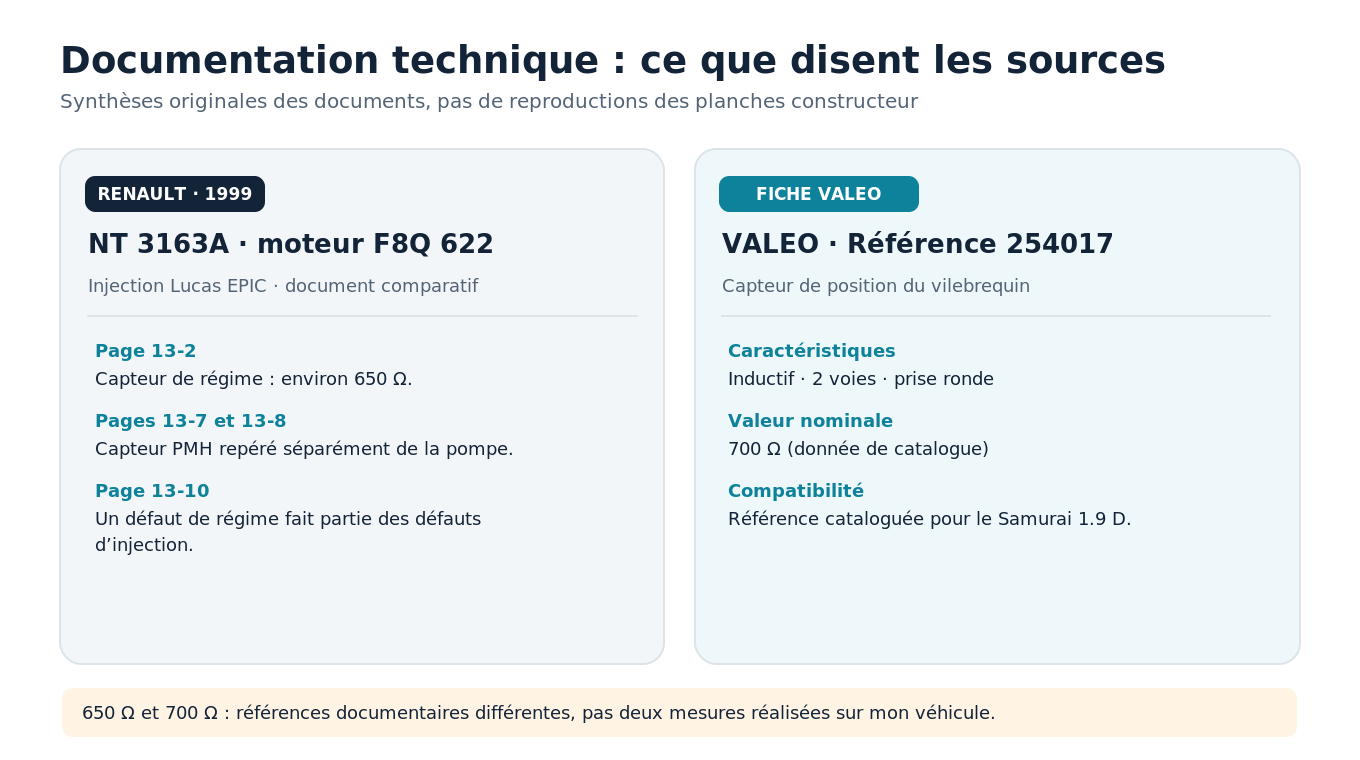
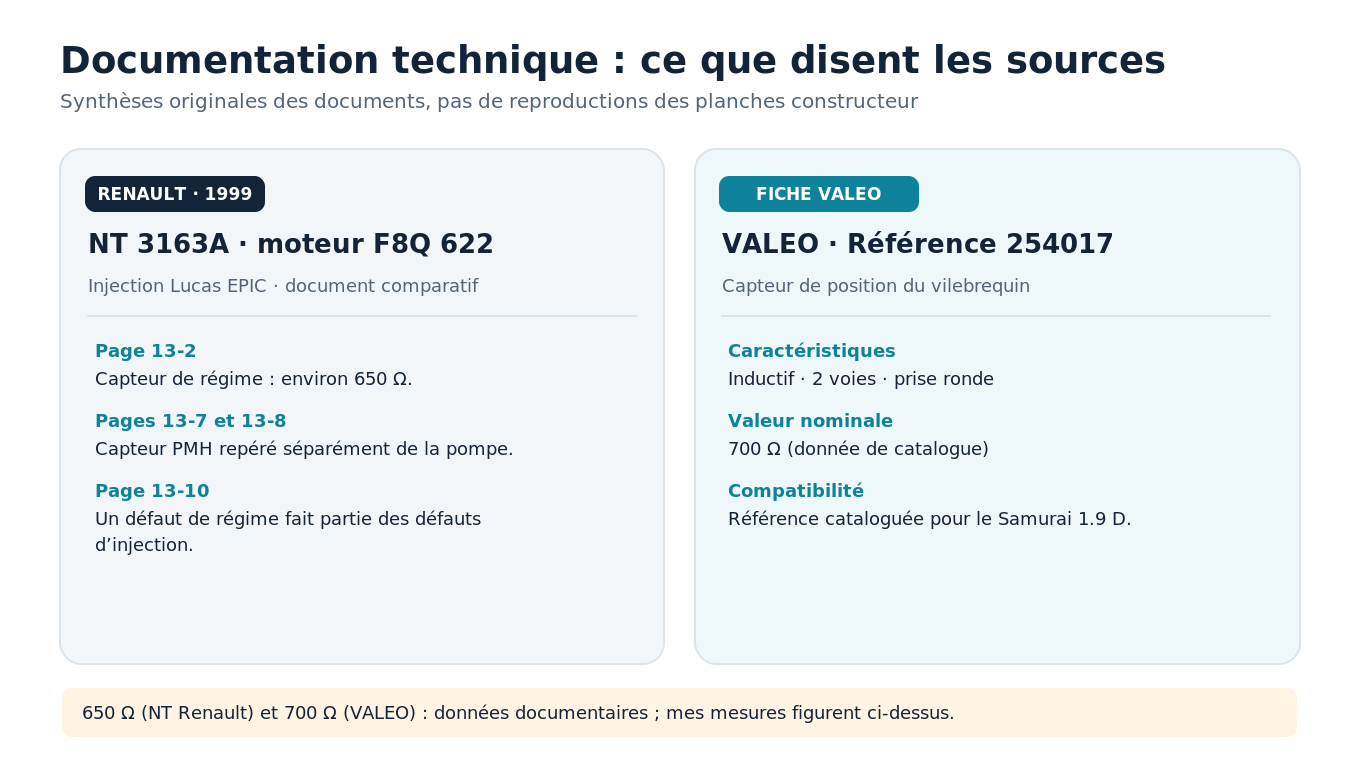
update avec photos

Changed region(s): [[0.0926, 0.9079, 0.7103, 0.9684]]

diff --git a/content/posts/Mecanique/suzuki-samurai-19d-panne-pmh/index.md b/content/posts/Mecanique/suzuki-samurai-19d-panne-pmh/index.md
@@ -1,126 +1,158 @@
 ---
-title: "Suzuki Samurai 1.9 D : une panne d'injection Lucas EPIC causée par le capteur PMH"
+title: "Suzuki Samurai 1.9 D : la pompe Lucas EPIC innocente, le capteur PMH coupé"
 date: 2026-10-27T21:30:00+01:00
+lastmod: 2026-10-27T22:30:00+01:00
 draft: false
 author: "F4EGM"
-description: "Retour d'expérience sur un Suzuki Samurai 1.9 D F8Q de 2001 : absence de démarrage, pompe Lucas EPIC suspectée, puis réparation avec un capteur PMH VALEO 254017 à 16 €."
-tags: ["Suzuki Samurai", "Renault F8Q", "Lucas EPIC", "capteur PMH", "injection diesel", "réparation"]
+description: "Suzuki Samurai 1.9 D F8Q de 2001 en panne : diagnostic de la pompe Lucas EPIC, capteur PMH ancien mesuré à plus de 2 MΩ, puis réparation avec un VALEO 254017 à 16 €. Photos et références réelles."
+tags: ["Suzuki Samurai", "Renault F8Q", "Lucas EPIC", "capteur PMH", "VALEO 254017", "injection diesel", "réparation"]
 ShowToc: true
 TocOpen: false
 cover:
   image: "couverture-samurai-pmh.png"
-  alt: "Schéma de principe : panne de démarrage du Suzuki Samurai 1.9 D et capteur PMH VALEO 254017"
+  alt: "Suzuki Samurai 1.9 D : diagnostic du capteur PMH et injection Lucas EPIC"
   relative: true
 ---
 
-Une panne de démarrage sur un **Suzuki Samurai 1.9 D de 2001**, équipé du moteur d'origine Renault **F8Q** et d'une pompe d'injection électronique **Lucas EPIC**, m'a d'abord orienté vers la pompe elle-même. Le gazole arrivait, mais je ne constatais pas de refoulement vers les injecteurs. Après plusieurs vérifications, le responsable s'est révélé être **le capteur de position du vilebrequin (PMH)**.
+Mon **Suzuki Samurai 1.9 D de 2001**, équipé du moteur diesel Renault **F8Q** et d'une pompe d'injection **Lucas EPIC**, refusait de redémarrer. Le gazole arrivait à la pompe, mais je ne constatais pas de débit vers les injecteurs. Tout orientait vers une panne de l'injection.
 
-**Résultat :** un **VALEO 254017**, acheté **16 € sur Amazon**, remplacé en quelques minutes. Depuis son remplacement, le moteur fonctionne de nouveau.
+Au final, il n'a fallu **ni remplacer ni faire réparer la pompe**. La panne venait du **capteur de position du vilebrequin (PMH)**. Un **VALEO 254017 acheté 16 € sur Amazon**, monté en quelques minutes, a permis au moteur de repartir.
 
-## Le véhicule et la panne
+La mesure électrique, effectuée sur l'ancien et le nouveau capteur, est particulièrement parlante : **plus de 2 MΩ pour le capteur hors service, contre environ 700 Ω pour le neuf**.
 
-| Élément | Identification |
+## Le véhicule et les symptômes
+
+| Élément | Référence / constat |
 |---|---|
-| Véhicule | Suzuki Samurai 1.9 D, première mise en circulation le 23 juillet 2001 |
+| Véhicule | Suzuki Samurai 1.9 D, mis en circulation le 23 juillet 2001 |
 | Type | SJS04 |
-| Moteur | Renault F8Q, référencé NF8Q dans certains catalogues de pièces Suzuki |
-| Injection | Pompe électronique Lucas EPIC, référence relevée R8640A111B |
-| Défaut | Arrêt / impossibilité de redémarrer, absence apparente de débit vers les injecteurs |
-| Cause confirmée par la réparation | Capteur PMH défectueux |
-| Réparation | Capteur VALEO 254017, 16 €, remplacement en quelques minutes |
+| Moteur | Renault F8Q diesel |
+| Pompe d'injection | Lucas EPIC, référence relevée **R8640A111B** |
+| Problème | Le moteur ne démarre plus ; gazole à l'arrivée de la pompe, aucun débit observé vers les injecteurs |
+| Pièce responsable | Capteur PMH / capteur de régime moteur |
+| Remplacement | **VALEO 254017**, 16 €, quelques minutes |
 
-![Suzuki Samurai de la même génération, photo illustrative d'un 1.9 TD de 2001](https://upload.wikimedia.org/wikipedia/commons/thumb/4/4b/Suzuki_Samurai_II_1.9_TD_2001_%2814574149333%29.jpg/960px-Suzuki_Samurai_II_1.9_TD_2001_%2814574149333%29.jpg)
+![Mon Suzuki Samurai 1.9 D et sa remorque sur un pont artisanal en bois](samurai-pont-artisanal-premiere-vue.jpg)
 
-*Photo d'illustration d'un autre Suzuki Samurai, version **1.9 TD** et non mon 1.9 D. Auteur : [order_242, Wikimedia Commons](https://commons.wikimedia.org/wiki/File:Suzuki_Samurai_II_1.9_TD_2001_(14574149333).jpg), licence [CC BY-SA 2.0](https://creativecommons.org/licenses/by-sa/2.0/). Image non retouchée.*
+*Mon Suzuki Samurai 1.9 D, photographié avec sa remorque sur un pont artisanal en rondins. Photo personnelle.*
 
-### Les symptômes observés
+![Vue générale de mon Suzuki Samurai et de sa remorque sur le pont](samurai-pont-artisanal-vue-generale.jpg)
 
-Le moteur ne redémarrait plus. Pourtant, l'alimentation en gazole et l'amorçage à la poire ne semblaient pas en cause. Les bougies de préchauffage avaient été contrôlées et l'antidémarrage paraissait fonctionner. En revanche, lors des essais, **le carburant ne semblait pas sortir de la pompe pour alimenter les injecteurs**.
+*Deuxième vue du même franchissement, montrant le 4×4, la remorque et l'ensemble du pont. Photo personnelle.*
 
-À la mise du contact, j'entendais un petit « tic ». Je pensais à l'électrovanne d'arrêt de la pompe, mais je n'avais pas identifié avec certitude l'organe à l'origine de ce bruit. Il aurait été abusif d'en conclure que l'électrovanne était bonne ou mauvaise.
+À la mise du contact, un petit *tic* était audible. J'avais pensé à l'électrovanne d'arrêt (*stop*) de la pompe, mais je n'avais pas déterminé avec certitude la provenance du bruit. Le simple fait d'entendre ce bruit ne permet pas de confirmer le fonctionnement de la commande d'injection.
 
-![Photographie d'un moteur Renault F8Q 1.9 diesel dans une Renault 19](https://upload.wikimedia.org/wikipedia/commons/thumb/2/20/Moteur_renault_19d.jpg/960px-Moteur_renault_19d.jpg)
+## La fausse piste de la pompe Lucas EPIC
 
-*Photo d'illustration d'un F8Q monté dans une Renault 19 en 1992 ; ce n'est ni mon moteur photographié ni le montage de pompe du Samurai. Auteur : [Manuel Lasnier, Wikimedia Commons](https://commons.wikimedia.org/wiki/File:Moteur_renault_19d.jpg), licence [CC BY-SA 2.5](https://creativecommons.org/licenses/by-sa/2.5/). Image non retouchée.*
+L'EPIC est une pompe rotative à gestion électronique. Contrairement à une ancienne pompe mécanique, elle dépend de capteurs et d'électrovannes pilotées par un calculateur. Une anomalie peut donc donner l'impression que la pompe est défectueuse alors que le problème se situe à l'extérieur.
 
-## Pourquoi j'ai d'abord suspecté la pompe Lucas EPIC
+### Identification de la pompe
 
-Cette pompe ne se comporte pas comme une ancienne pompe diesel entièrement mécanique. Sur une Lucas EPIC, le calculateur pilote notamment le débit et l'avance au moyen d'électrovannes, en fonction des informations reçues de plusieurs capteurs.
+![Plaque réelle de la pompe Lucas EPIC R8640A111B](pompe-lucas-epic-r8640a111b.jpg)
 
-J'avais donc exploré la piste d'un problème interne de pompe, notamment celle du **capteur de position du rotor / tiroir de débit**. J'avais déposé puis reposé mécaniquement le petit bloc maintenu par deux vis, sans toucher au noyau ni aux cales. Cette intervention n'a pas résolu la panne.
+*Photo personnelle : plaque de la pompe montée sur mon Samurai, portant la référence **Lucas R8640A111B**, EPIC H11.027. L'image a été remise à l'horizontale pour faciliter la lecture.*
 
-**À ne pas confondre :** le capteur de position interne de la Lucas EPIC et le **capteur PMH du moteur** sont deux organes différents. La documentation Renault indique que les capteurs internes de position des tiroirs nécessitent des opérations spécialisées de calibration. **Je déconseille donc d'ouvrir la pompe pour un non-démarrage avant d'avoir contrôlé le signal PMH.**
+### Le capteur de rotor que j'avais suspecté
 
-## Le rôle du capteur PMH dans l'injection
+Lors des recherches, j'ai démonté le bloc du capteur de position du rotor, fixé par deux vis. Il porte la référence **Lucas 9160-114A**. Ce capteur fait partie de la pompe EPIC : il ne faut pas le confondre avec le capteur PMH du moteur.
 
-Le PMH est un capteur de régime et de position du vilebrequin. Son signal permet au calculateur de connaître la rotation du moteur et son repère angulaire. Sur cette génération d'injection électronique, une information de régime absente ou inexploitable peut perturber la commande d'injection.
+![Référence 9160-114A relevée sur le capteur de rotor de la pompe](capteur-rotor-epic-9160-114a.jpg)
 
-![Schéma de principe du capteur PMH, du calculateur et de la pompe Lucas EPIC](chaine-pmh-injection.png)
+*Photo personnelle : étiquette **9160-114A** sur le capteur de position de rotor de la pompe Lucas EPIC. L'étiquette correspond à une référence proposée pour les pompes EPIC phase III, dont la R8640A111B : [fiche technique du fournisseur](https://www.liron.fr/capteur-rotor-lucas-epic-iii-9160-114a-rp-c2x40472778).*
 
-*Schéma fonctionnel original. Il explique la relation entre les organes, mais ne représente pas le câblage réel du Samurai. L'absence de commande d'injection est une interprétation compatible avec les symptômes, pas une mesure électrique que j'aurais faite sur ce véhicule.*
+**Un essai pouvait induire en erreur.** En ouvrant ce logement, puis en actionnant le démarreur, du gazole en sortait. J'ai pensé que cela pouvait signifier que la vanne de stop était ouverte. En réalité, **cet écoulement ne suffit pas à démontrer que l'électrovanne d'arrêt fonctionne correctement**, ni que la pompe refoule vers les injecteurs. Il indique seulement que du carburant était présent dans la partie ouverte de la pompe lors de l'essai.
 
-![Capteur de vilebrequin inductif générique ouvert et représenté en coupe](https://upload.wikimedia.org/wikipedia/commons/7/7c/Crankshaft_sensor.png)
+> **Attention :** je rapporte cet essai pour expliquer le diagnostic, **pas comme une méthode à reproduire**. Ouvrir la pompe expose à des fuites et à l'introduction d'impuretés. Le fournisseur précise que le capteur de rotor 9160-114A nécessite un paramétrage au banc après remplacement.
 
-*Illustration générique d'un capteur inductif : (1) bobine, (2) noyau en fer doux, (3) aimant, (4) connexion électrique. Ce n'est **pas** une coupe du VALEO 254017. Auteur : [Tamasflex, Wikimedia Commons](https://commons.wikimedia.org/wiki/File:Crankshaft_sensor.png), licence [CC BY-SA 3.0](https://creativecommons.org/licenses/by-sa/3.0/). Image non retouchée.*
+## Le capteur PMH était le véritable responsable
 
-## La pièce : VALEO 254017
+Le capteur PMH est fixé sur un support face au **volant moteur**, à proximité de la jonction moteur-boîte. Il renseigne le calculateur sur le régime et la position du vilebrequin. Sur l'injection Lucas EPIC, une absence de signal exploitable peut empêcher une commande d'injection normale.
 
-![Photographie de la pièce VALEO 254017, capteur PMH deux broches avec bride métallique](https://media.pkwteile.de/360_photos/9386186/h-preview.jpg)
+![Photo réelle du nouveau capteur PMH en place face au volant moteur](pmh-nouveau-detail.jpg)
 
-*Photographie commerciale du **VALEO 254017** diffusée sur [Piècesauto24](https://www.piecesauto24.com/valeo/9386186). Elle montre la référence de remplacement, pas le capteur que j'ai déposé. Image externe, propriété de son ayant droit ; autorisation de reproduction non vérifiée.*
+*Photo personnelle : **nouveau VALEO 254017 monté** sur mon Samurai, en regard du volant moteur. Le capteur est la pièce noire au centre de l'image, près de son faisceau et de sa fixation.*
 
-J'ai retenu le **VALEO 254017**, annoncé compatible avec le Samurai 1.9 D / NF8Q dans les catalogues de pièces. Il se présente comme un capteur **inductif à deux voies**, avec prise ronde, sans câble intégré. La fiche commerciale indique une résistance nominale de **700 Ω**.
+[Voir la photo originale en plan large de l'emplacement du capteur](pmh-nouveau-vue-ensemble.jpg).
 
-![Synthèse illustrée de la fiche technique du VALEO 254017](fiche-valeo-254017.png)
+![Schéma de principe : capteur PMH, calculateur et injection Lucas EPIC](chaine-pmh-injection.png)
 
-*Dessin original indicatif : pour voir la forme exacte de la pièce, consulter la [fiche produit VALEO 254017 chez Oscaro](https://www.oscaro.com/generateur-dimpulsions-vilebrequin-valeo-254017-9246948-833-p). La mention « 12 V » dans les catalogues correspond à l'application automobile ; **elle ne signifie pas qu'il faut alimenter directement les deux broches de ce capteur inductif en 12 V.***
+*Schéma fonctionnel original, non contractuel : il ne s'agit pas du câblage électrique spécifique au Suzuki SJS04.*
 
-Quelques références constructeur rapprochées du VALEO 254017 dans les catalogues : **Suzuki 33957-84A02-000**, **Renault 8201040861**. Ces équivalences servent à rechercher la pièce, mais ne remplacent pas la vérification du connecteur et du montage sur le véhicule concerné.
+### Les mesures qui ont tranché
 
-## Ce qu'apporte la documentation technique
+J'ai mesuré la résistance électrique des deux capteurs :
 
-J'ai retrouvé la **note technique Renault NT 3163A, janvier 1999**, relative au moteur **F8Q 622** équipé de la pompe **Lucas EPIC**. Ce document concerne une application Renault : il éclaire le fonctionnement de l'injection, **mais ne constitue pas le manuel d'atelier spécifique au Suzuki SJS04**.
+| Mesure aux deux bornes | Valeur relevée |
+|---|---:|
+| **Ancien PMH** | **Plus de 2 MΩ** |
+| **Nouveau PMH VALEO 254017** | **Environ 700 Ω** |
+| **Valeur donnée par la fiche VALEO** | **700 Ω** |
 
-Dans ce document :
+![Comparaison des mesures réelles sur le capteur défectueux et sur le nouveau](comparatif-mesures-pmh.png)
 
-- **Page 13-2 :** la résistance du capteur de régime est indiquée à **environ 650 Ω** pour cette application.
-- **Pages 13-7 et 13-8 :** le capteur de régime / PMH est identifié séparément de la pompe d'injection EPIC.
-- **Page 13-10 :** un défaut de capteur de régime figure parmi les anomalies susceptibles d'allumer le témoin d'injection.
-- **Page 13-3 :** les capteurs de position internes des tiroirs de la pompe EPIC sont décrits comme des organes dont la position est calibrée avec un équipement spécialisé.
+Le vieux capteur était **très sale**, mais ne présentait **aucune détérioration évidente à l'œil nu**. Son absence de continuité normale ne pouvait pas être déduite de son apparence. En comparaison, la valeur du capteur neuf correspond à la résistance indiquée dans le catalogue du fabricant.
 
-![Extraits documentaires sous forme de synthèse redessinée](synthese-documentation-f8q-valeo.png)
+Cette mesure sur l'ancien capteur est **compatible avec une coupure du bobinage ou un problème de continuité électrique**. Elle ne permet pas de localiser précisément la rupture à l'intérieur de la pièce. Dans mon cas, le redémarrage après remplacement confirme la piste du PMH.
 
-*Synthèse originale de deux sources : [NT Renault 3163A, moteur F8Q 622 / Lucas EPIC](https://pdfcoffee.com/3163a-particularites-moteur-f8q-622-pdf-free.html) et [fiche VALEO 254017](https://www.oscaro.com/generateur-dimpulsions-vilebrequin-valeo-254017-9246948-833-p). Les planches originales Renault ne sont pas reproduites.*
+Le contrôle à l'ohmmètre est utile pour déceler une coupure franche comme ici. **Une résistance proche de 700 Ω ne suffit toutefois pas à prouver qu'un capteur produit un signal correct pendant le lancement du moteur** : un contrôle dynamique peut rester nécessaire en cas de panne intermittente.
 
-Il faut éviter de transformer ces **650 Ω** et **700 Ω** en un seuil universel de diagnostic. Le premier chiffre vient d'un document d'atelier pour une application F8Q précise ; le second est une caractéristique catalogue de la référence VALEO. **Je n'ai pas effectué de relevé comparatif publié de résistance sur mon ancien capteur et sur le nouveau.**
+### La pièce choisie : VALEO 254017
 
-## Comment vérifier cette piste avant de démonter la pompe
+![Photographie commerciale du capteur de vilebrequin VALEO 254017](https://media.pkwteile.de/360_photos/9386186/h-preview.jpg)
 
-Pour un véhicule présentant les mêmes symptômes, l'ordre de vérification le plus logique est le suivant :
+*Photo catalogue du **VALEO 254017** : [Piècesauto24](https://www.piecesauto24.com/valeo/9386186). Image distante, droits de republication non vérifiés ; la photo n'est pas copiée dans les fichiers du site.*
 
-1. Vérifier que le démarreur entraîne correctement le moteur, puis contrôler l'alimentation électrique générale et l'arrivée de gazole, sans intervenir sur les conduites haute pression moteur tournant.
-2. Repérer le **capteur PMH près du volant moteur / de la jonction moteur-boîte**. Sa position exacte et l'accès peuvent varier selon le montage ; vérifier sur le véhicule avant toute dépose.
-3. Contact coupé et capteur débranché, mesurer la résistance entre ses **deux broches**. Une coupure franche ou un court-circuit constituent des indices ; une valeur voisine de la nominale **ne prouve pas à elle seule que le capteur fonctionne au démarrage**.
-4. Si le doute subsiste, contrôler le signal pendant l'entraînement au démarreur avec un oscilloscope adapté, ainsi que l'état du connecteur et du faisceau.
-5. Ne s'intéresser aux organes internes de la Lucas EPIC qu'après avoir éliminé ces causes externes simples.
+Le modèle commandé est un **capteur inductif deux broches**, sans câble intégré, avec une prise ronde. Sa **résistance nominale est de 700 Ω**, ce qui concorde avec ma mesure sur la pièce neuve. Le VALEO 254017 figure aussi dans les catalogues pour le Suzuki Samurai 1.9 D (NF8Q) de cette période.
 
-Je n'ai pas relevé ni conservé de valeur électrique de l'ancien capteur dans ce cas précis : **le diagnostic est confirmé ici par le retour au fonctionnement après remplacement**.
+![Fiche illustrée de la référence VALEO 254017](fiche-valeo-254017.png)
 
-## Remplacement et résultat
+*Illustration technique originale ; elle n'est pas un dessin constructeur. La mention catalogue « 12 V » désigne l'application véhicule, pas une tension à appliquer sur les deux bornes d'un capteur inductif passif.*
 
-J'ai commandé le **VALEO 254017 sur Amazon pour 16 €**. Le changement a pris **quelques minutes** et, une fois le capteur remplacé, **le moteur a de nouveau fonctionné**. Je n'ai eu à remplacer ni la pompe Lucas EPIC ni le calculateur d'injection.
+## Ce que dit la documentation Renault
 
-Ce retour d'expérience est intéressant pour une raison précise : l'absence apparente de refoulement de gazole peut orienter à tort vers la pompe elle-même, alors que **l'information de régime moteur** fait partie des conditions nécessaires au fonctionnement de l'injection électronique.
+La **note technique Renault NT 3163A**, publiée en janvier 1999, traite le **F8Q 622 avec pompe Lucas EPIC**. Elle n'est pas le manuel d'atelier du Samurai SJS04, mais apporte des repères utiles :
 
-**Conclusion :** sur un Samurai 1.9 D / F8Q avec Lucas EPIC qui refuse de démarrer, je commencerais par contrôler le capteur PMH et son faisceau **avant** d'envisager une réparation de pompe d'injection.
+- **Page 13-2** : résistance du capteur de régime de cette application Renault, **environ 650 Ω**.
+- **Pages 13-7 et 13-8** : distinction entre le **capteur PMH du moteur** et la **pompe Lucas EPIC**.
+- **Page 13-10** : mention des anomalies de régime moteur parmi les défauts d'injection.
+- **Page 13-3** : capteurs internes de position de la pompe, dont les interventions requièrent des précautions et des opérations spécialisées.
 
-## Sources et crédits
+![Synthèse des informations documentaires Renault et VALEO](synthese-documentation-f8q-valeo.png)
 
-- [Renault, NT 3163A (janvier 1999), F8Q 622 / Lucas EPIC](https://pdfcoffee.com/3163a-particularites-moteur-f8q-622-pdf-free.html), sections 13-2, 13-3, 13-7, 13-8 et 13-10. Document technique comparatif, reproduction des planches non autorisée sans accord.
-- [VALEO 254017 : fiche technique chez Oscaro](https://www.oscaro.com/generateur-dimpulsions-vilebrequin-valeo-254017-9246948-833-p), technologie, connectique et résistance catalogue.
-- [Catalogue Suzuki Samurai 1.9 D / NF8Q chez Piècesauto](https://www.piecesauto.fr/marque-automobile/pieces-detachees-suzuki/samurai-sj/25511/15032/capteur-pmh.html), plage d'application et référence de capteur.
-- [Équivalences constructeur VALEO 254017 chez Motointegrator](https://www.motointegrator.fr/produits/1400974-capteur-de-vilebrequin-valeo-254017).
-- Photos libres Wikimedia Commons : [Suzuki Samurai 1.9 TD 2001](https://commons.wikimedia.org/wiki/File:Suzuki_Samurai_II_1.9_TD_2001_(14574149333).jpg) (order_242, CC BY-SA 2.0), [moteur Renault F8Q](https://commons.wikimedia.org/wiki/File:Moteur_renault_19d.jpg) (Manuel Lasnier, CC BY-SA 2.5), et [coupe générique d'un capteur inductif](https://commons.wikimedia.org/wiki/File:Crankshaft_sensor.png) (Tamasflex, CC BY-SA 3.0).
-- [Piècesauto24 : photographie commerciale du VALEO 254017](https://www.piecesauto24.com/valeo/9386186). La photographie est appelée depuis le serveur tiers, sans copie locale ; son autorisation de republication n'est pas établie.
-- [Photographies de la pompe d'injection R8640A111B chez Eurofrance](https://eurofrance.cz/vstrikovaci-cerpadlo-delphi-r8640a111b-7700115073-epic-19d-f8q-renault.html) (illustration d'une pompe portant la même référence, sans copie des photos).
-- Schémas et synthèses graphiques : illustrations originales réalisées pour cet article, **non assimilables à des extraits graphiques constructeur**.
+*Synthèse graphique originale, non extraite du document constructeur. Source : [NT Renault 3163A, moteur F8Q 622](https://pdfcoffee.com/3163a-particularites-moteur-f8q-622-pdf-free.html), et fiche [VALEO 254017](https://www.piecesauto24.com/valeo/9386186).*
+
+Les **650 Ω** de la note Renault et les **700 Ω** de la fiche VALEO sont **deux données documentaires**, applicables à des références ou configurations différentes. Mes propres mesures sont bien celles présentées plus haut : **plus de 2 MΩ** sur l'ancien et **environ 700 Ω** sur le nouveau.
+
+![Vue de principe d'un capteur PMH inductif en coupe](https://upload.wikimedia.org/wikipedia/commons/7/7c/Crankshaft_sensor.png)
+
+*Coupe générique d'un capteur inductif, et non coupe du VALEO 254017 : bobine, noyau, aimant et raccordement. [Tamasflex, Wikimedia Commons](https://commons.wikimedia.org/wiki/File:Crankshaft_sensor.png), [CC BY-SA 3.0](https://creativecommons.org/licenses/by-sa/3.0/).*
+
+## Réparation et résultat
+
+J'ai acheté le **VALEO 254017 sur Amazon pour 16 €**. La dépose de l'ancien capteur et la pose du nouveau n'ont pris que **quelques minutes**. Une fois le capteur remonté et connecté, **le moteur a redémarré et fonctionne de nouveau**.
+
+La pompe Lucas EPIC **R8640A111B** est restée en place. Il n'a pas été nécessaire de la remplacer.
+
+### Comment j'aborderais aujourd'hui la même panne
+
+Sur un Samurai F8Q avec injection EPIC et moteur qui ne démarre plus, je vérifierais désormais le **PMH et sa connectique avant de déposer le moindre composant interne de la pompe** :
+
+1. Contrôler l'état du connecteur du capteur et de son faisceau, contact coupé.
+2. Capteur débranché, mesurer sa résistance entre les deux broches ; une valeur de plusieurs mégohms comme ici est anormale pour la référence VALEO 254017.
+3. Vérifier l'implantation et la fixation du capteur en regard du volant moteur.
+4. Si la résistance paraît normale, rechercher une panne de faisceau ou mesurer le signal au démarreur avec un oscilloscope adapté.
+5. Ensuite seulement, si nécessaire, poursuivre le diagnostic vers le calculateur, la commande de stop ou la pompe.
+
+Cette méthode ne remplace pas un diagnostic complet et ne signifie pas que toutes les pannes de Lucas EPIC proviennent du PMH. Elle aurait simplement permis, dans mon cas, d'éviter de commencer par le démontage de la pompe.
+
+**Bilan : une panne immobilisante, une pièce à 16 €, et quelques minutes pour remettre en route le Samurai. Le capteur HS ne paraissait pas cassé ; c'est la mesure de résistance qui a fait la différence.**
+
+## Sources, documents et crédits photographiques
+
+- [Renault, note technique NT 3163A (1999), F8Q 622 et Lucas EPIC](https://pdfcoffee.com/3163a-particularites-moteur-f8q-622-pdf-free.html), pages 13-2, 13-3, 13-7, 13-8, 13-10. Application Renault distincte du montage Suzuki.
+- [VALEO 254017, fiche catalogue Piècesauto24](https://www.piecesauto24.com/valeo/9386186) : capteur inductif, deux broches, 700 Ω.
+- [Suzuki Samurai 1.9 D : catalogue des capteurs PMH](https://www.pieces24.be/suzuki/samurai-sj/25511/15032/capteur-pmh), application NF8Q.
+- [Lucas EPIC III, capteur rotor 9160-114A](https://www.liron.fr/capteur-rotor-lucas-epic-iii-9160-114a-rp-c2x40472778), référence et nécessité de paramétrage au banc.
+- Photographies personnelles : **mon Suzuki Samurai avec sa remorque sur un pont artisanal (deux vues), le capteur PMH monté, la plaque de pompe Lucas EPIC et la référence du capteur de rotor**. Certaines vues techniques ont été recadrées ou réorientées.
+- Illustration Wikimedia Commons : [coupe de capteur inductif](https://commons.wikimedia.org/wiki/File:Crankshaft_sensor.png) (Tamasflex, CC BY-SA 3.0).
+- Schémas, figures et synthèses : dessins originaux créés pour cet article, non reproductions de planches Renault.
